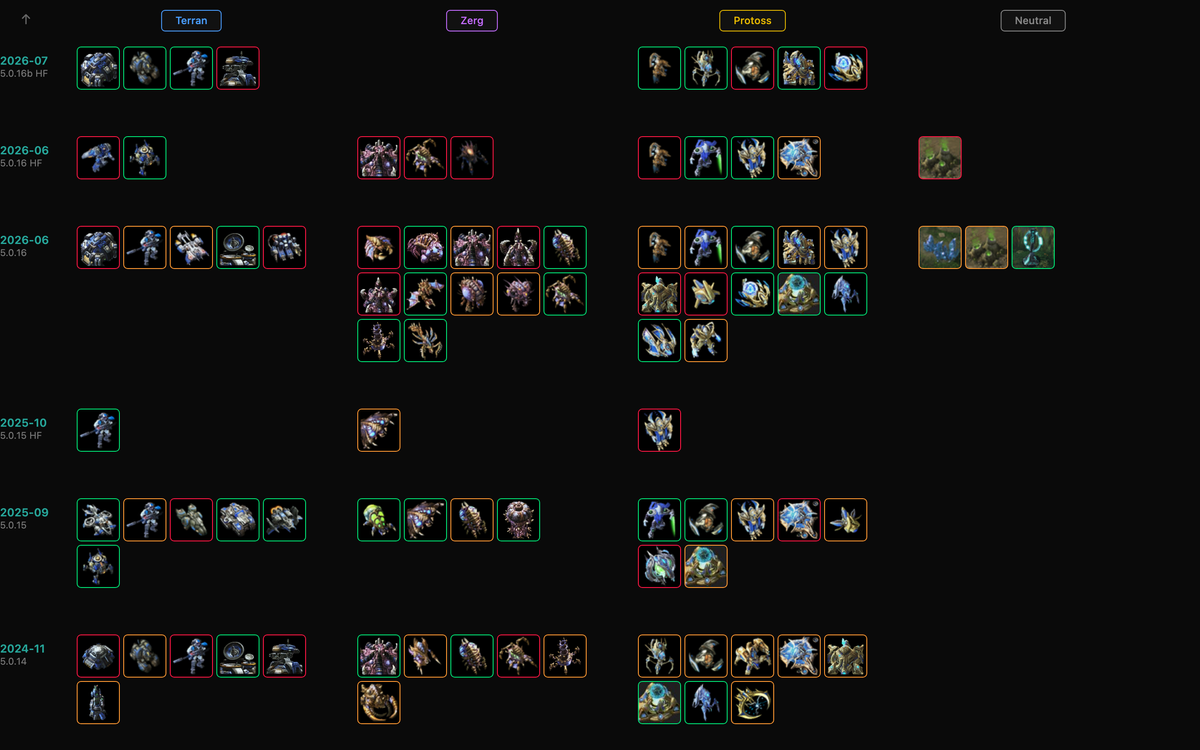
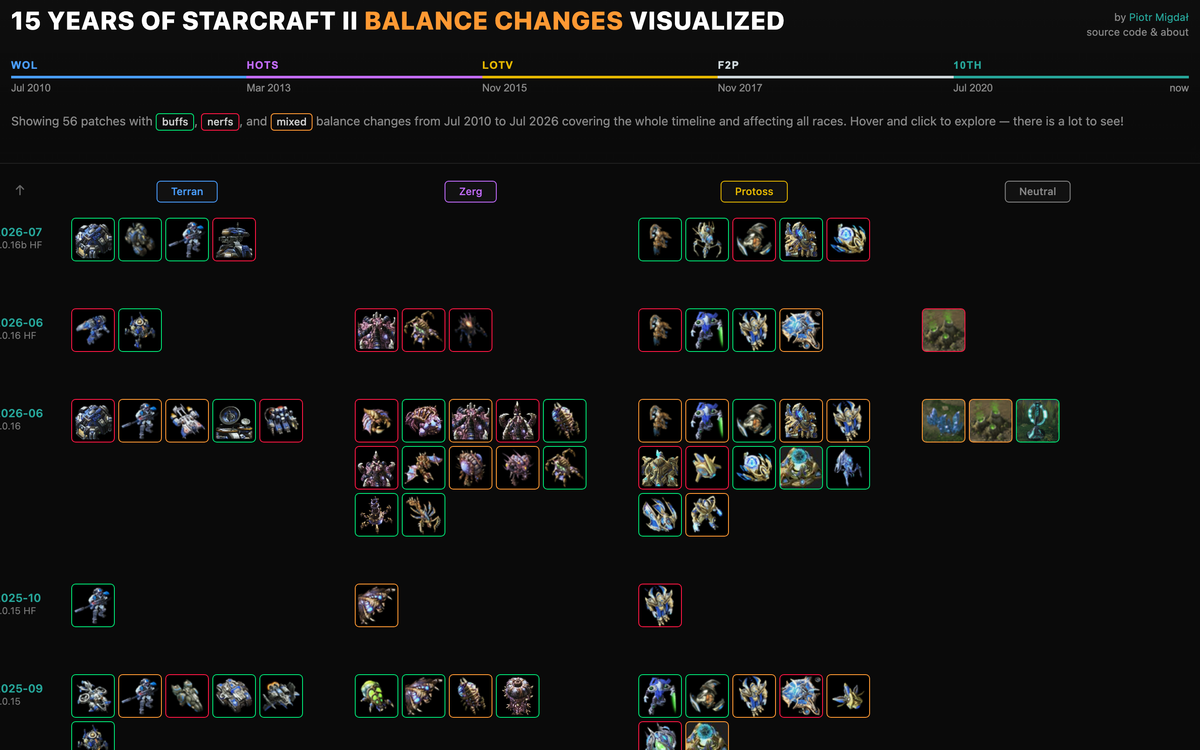
feat(projects): upgrade the five weakest thumbnails
Every tile now shows the project's actual substance, verified visually at
full size, one by one:

- Pulser Studio: the Studio UI itself — register editor, histogram, code,
  pulse channels — from my Medium review (recovered via the Wayback
  Machine; Medium sits behind Cloudflare). Was a marketing banner.
- Quantum Game 2: a photon puzzle mid-solve from the repo's social-media
  screenshot, letterboxed in the board's own purple. Was a logo strip.
- Trypophobia: frame 130 of the demo GIF — a blurred trypophobia post
  between untouched ones, cropped to whole feed rows. Both the opening
  spinner frames and the final unblurred stretch missed the point.
- Quesma Charts: the generated chart alone, carousel arrow removed.
- StarCraft balance: title band plus the top of the patch grid; the grid
  alone read as a sparse black field.

Plumbing: numeric `frame` selects a specific GIF moment; `imageCrop`
cuts a downloaded image in source pixels (as its own sharp pass — sharp
sequences trim before extract inside one pipeline).

diff --git a/scripts/projectShots.ts b/scripts/projectShots.ts
@@ -33,8 +33,10 @@ export interface Shot {
   prepare?: string;
   /** Settle time after `prepare`, when it kicks off a render. */
   prepareWait?: number;
-  /** Which frame of an animation to use. Defaults to the last. */
-  frame?: 'first' | 'last';
+  /** Which frame of an animation to use: an index, or first/last. Defaults to the last. */
+  frame?: 'first' | 'last' | number;
+  /** Crop applied to a downloaded image, in source pixels. */
+  imageCrop?: { x: number; y: number; width: number; height: number };
   /** Set false to keep surrounding whitespace instead of trimming to content. */
   trim?: boolean;
   /** Letterbox colour, for artefacts that are not on white. */
@@ -68,9 +70,12 @@ export const SHOTS: Record<string, Shot> = {
     fit: 'contain',
   },
   'quantum-game-2': {
+    // Actual gameplay: a photon puzzle mid-solve, from the repo's own
+    // social-media screenshot. Letterboxed in the board's background purple.
     image:
-      'https://raw.githubusercontent.com/Quantum-Game/quantum-game-2/master/public/img/qg2_logo.png',
+      'https://raw.githubusercontent.com/Quantum-Game/quantum-game-2/master/public/img/qg2_social_media_screenshot.png',
     fit: 'contain',
+    background: '#260637',
   },
   'which-machine-learning-algorithm-are-you': {
     image:
@@ -107,9 +112,14 @@ export const SHOTS: Record<string, Shot> = {
     fit: 'contain',
   },
   'trypophobia-image-detector-browser-plugin-using-deep-learning': {
-    // The demo GIF ends mid-scroll; its opening frame shows the plugin at work.
+    // The frame where the point is visible: blurred trypophobia posts sitting
+    // between untouched ones. Early frames show loading spinners, late ones an
+    // unblurred stretch of feed.
     image: 'https://raw.githubusercontent.com/cytadela8/trypophobia/master/resources/poc.gif',
-    frame: 'first',
+    frame: 130,
+    // The frame catches the feed mid-scroll; cut the sliced row at its top.
+    imageCrop: { x: 0, y: 46, width: 498, height: 242 },
+    fit: 'contain',
   },
 
   // --- Live pages, clipped to the artefact -------------------------------
@@ -117,7 +127,9 @@ export const SHOTS: Record<string, Shot> = {
     selector: '.tree-wrap',
   },
   '15-years-of-starcraft-ii-balance-changes-visualized': {
-    clip: { x: 24, y: 210, width: 1392, height: 870 },
+    // Title plus the top of the patch grid — the grid alone reads as a sparse
+    // black field at thumbnail size.
+    clip: { x: 20, y: 14, width: 1400, height: 861 },
   },
   'equations-explained-colorfully': {
     // The rendered equation itself. No padding: the markdown editor starts
@@ -132,7 +144,10 @@ export const SHOTS: Record<string, Shot> = {
     fit: 'contain',
   },
   'quesma-charts': {
-    selector: '.gallery-card',
+    // The generated chart itself, not the whole gallery card around it.
+    selector: '.gallery-card img',
+    prepare: `document.querySelectorAll('.nav-button').forEach((el) => el.remove())`,
+    prepareWait: 500,
     fit: 'contain',
   },
   'virtual-lab-by-quantum-flytrap': {
@@ -263,16 +278,12 @@ export const SHOTS: Record<string, Shot> = {
     prepareWait: 8000,
   },
   'pulser-studio': {
-    selector: 'img.wp-block-cover__image-background',
-    // The consent notice lives in a shadow root, so it survives the generic
-    // overlay sweep; drop its host outright.
-    prepare: `
-      Array.from(document.querySelectorAll('*'))
-        .filter((el) => el.shadowRoot && /cookie/i.test(el.shadowRoot.textContent || ''))
-        .forEach((el) => el.remove())
-    `,
+    // The product page is a text banner with no product imagery. This is the
+    // Studio UI itself, from my Medium review of it (via the Wayback Machine,
+    // since Medium sits behind Cloudflare).
+    image: 'https://miro.medium.com/v2/resize:fit:1400/1*XdpIcruQzlHVVN0jK5dH2w.png',
     fit: 'contain',
-    wait: 6000,
+    background: '#2e2e2e',
   },
 
   // --- No meaningful visual ----------------------------------------------

diff --git a/scripts/captureProjectScreenshots.ts b/scripts/captureProjectScreenshots.ts
@@ -53,9 +53,15 @@ async function normalise(input: Buffer, shot: Shot): Promise<Buffer> {
   const meta = await sharp(input).metadata();
 
   // An animated demo's first frame is its empty starting state — a training
-  // plot before any epoch has run. The last frame is the finished result.
+  // plot before any epoch has run. The last frame is usually the finished
+  // result; a numeric frame picks a specific moment mid-demo.
   const pages = meta.pages ?? 1;
-  const page = shot.frame === 'first' || pages < 2 ? 0 : pages - 1;
+  const page =
+    typeof shot.frame === 'number'
+      ? Math.min(shot.frame, pages - 1)
+      : shot.frame === 'first' || pages < 2
+        ? 0
+        : pages - 1;
 
   // Letterbox colour: white suits most artefacts, but a dark visualisation
   // needs a dark surround or the tile reads as broken.
@@ -66,7 +72,19 @@ async function normalise(input: Buffer, shot: Shot): Promise<Buffer> {
     b: parseInt(hex.slice(4, 6), 16),
   };
 
-  let pipeline = sharp(input, { page });
+  // sharp sequences trim before extract within one pipeline, so a crop has to
+  // be materialised in its own pass first.
+  let source = input;
+  let sourcePage = page;
+  if (shot.imageCrop) {
+    const c = shot.imageCrop;
+    source = await sharp(input, { page })
+      .extract({ left: c.x, top: c.y, width: c.width, height: c.height })
+      .png()
+      .toBuffer();
+    sourcePage = 0;
+  }
+  let pipeline = sharp(source, { page: sourcePage });
   // Trim slack so the artefact is centred on its true bounds rather than on
   // whatever whitespace the page included. Only safe when letterboxing:
   // trimming changes the aspect ratio, and `cover` would then crop into the
